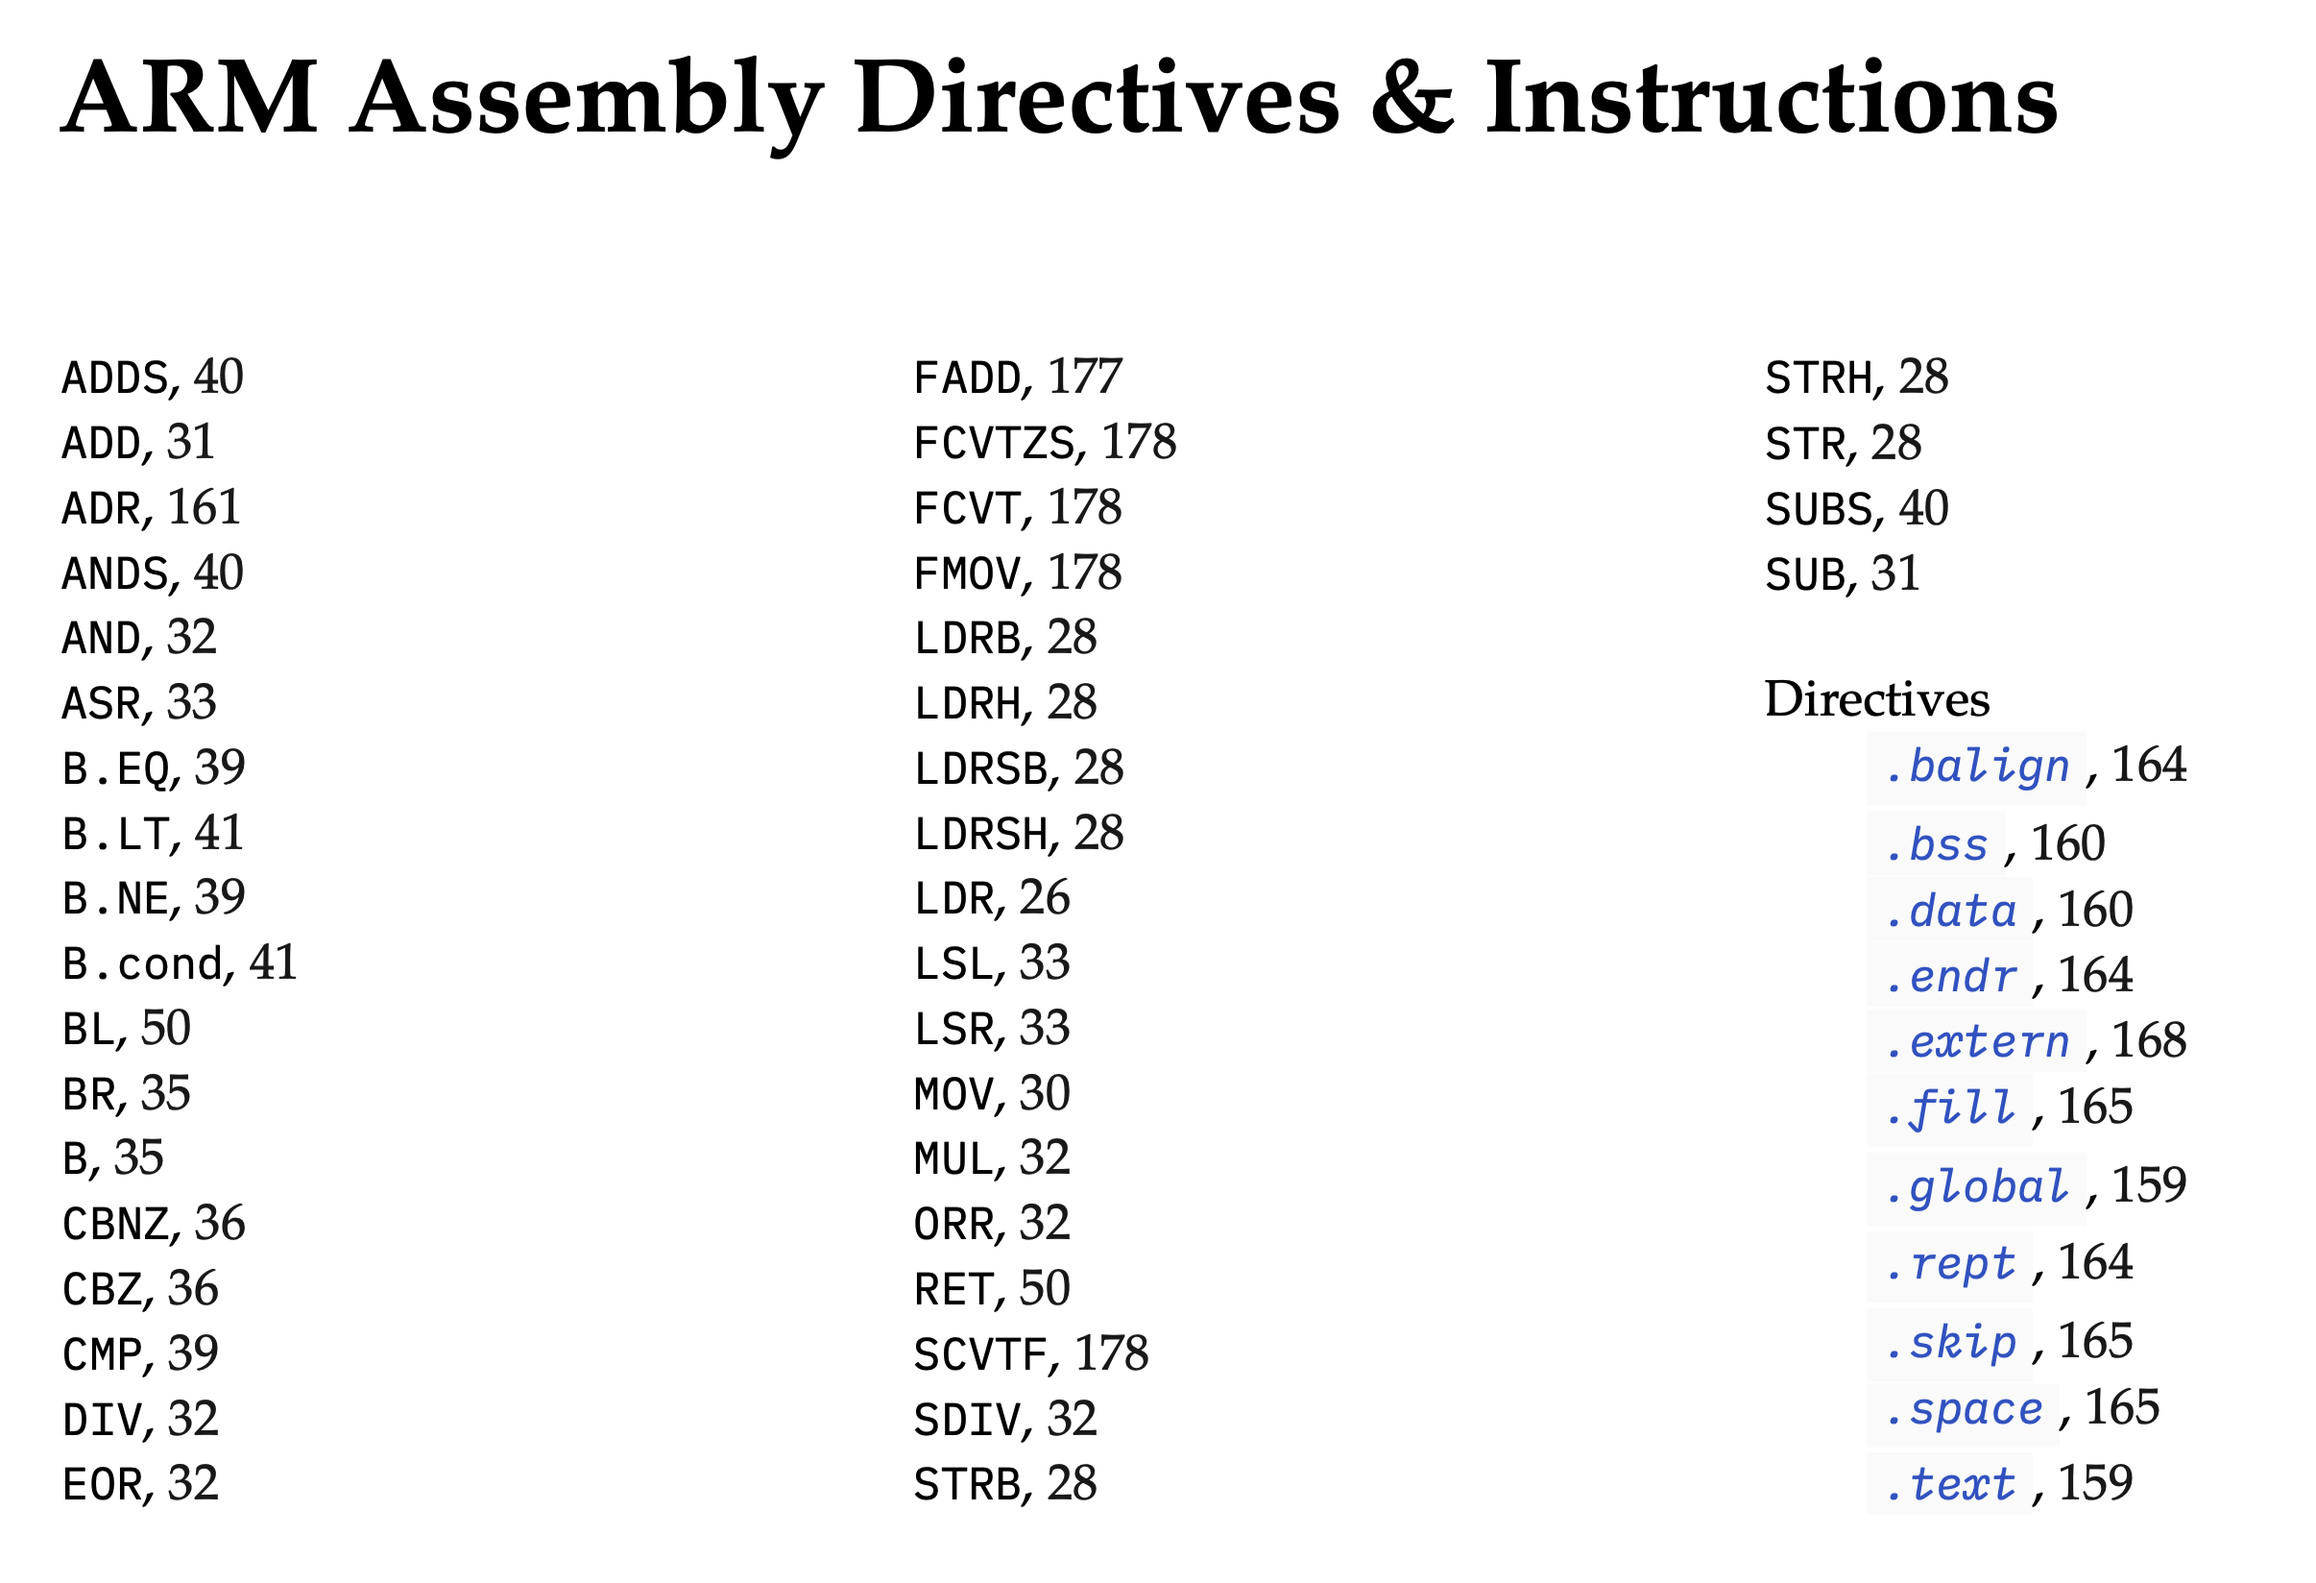
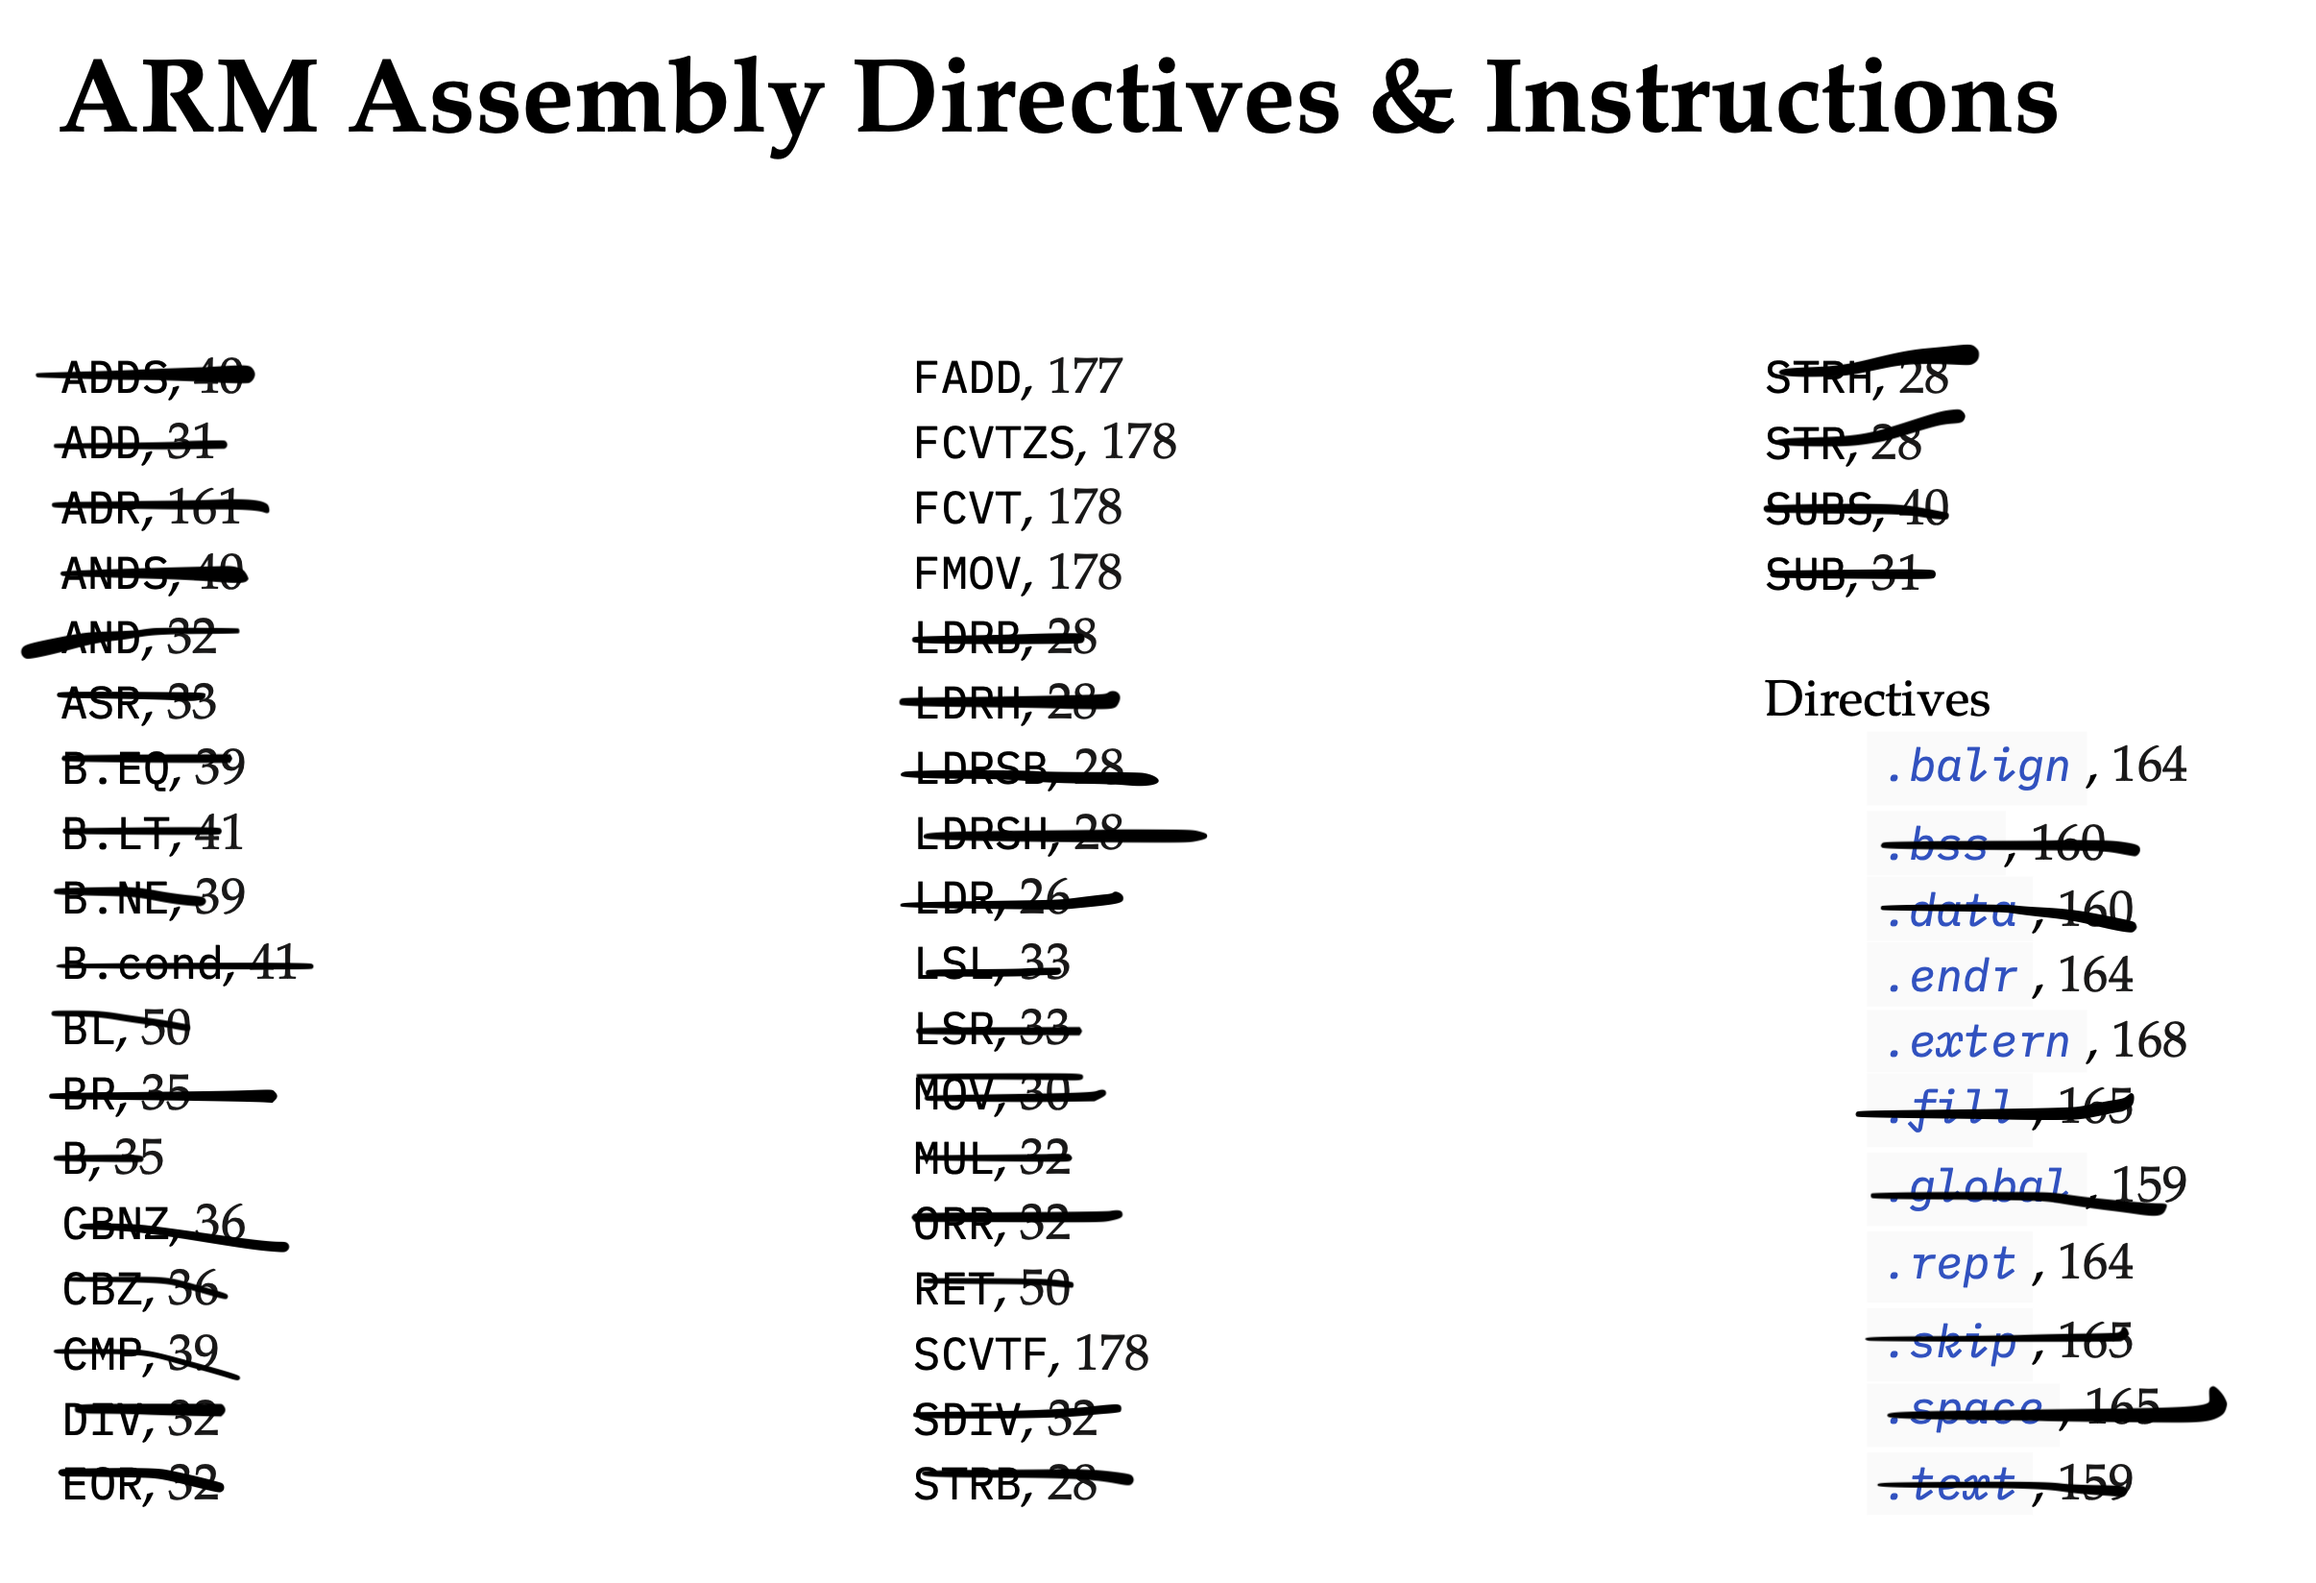
Started adding more instructions, added .space

diff --git a/src/cpu/state.rs b/src/cpu/state.rs
@@ -338,6 +338,7 @@ impl CpuState {
             OpCode::UDIV => self.execute_binary_op(&ir_insn.operands, alu::udiv, false, false),
             OpCode::SDIV => self.execute_binary_op(&ir_insn.operands, alu::sdiv, false, false),
             OpCode::AND => self.execute_binary_op(&ir_insn.operands, alu::and, false, false),
+            OpCode::ANDS => self.execute_binary_op(&ir_insn.operands, alu::and, true, false),
             OpCode::ORR => self.execute_binary_op(&ir_insn.operands, alu::orr, false, false),
             OpCode::EOR => self.execute_binary_op(&ir_insn.operands, alu::eor, false, false),
             OpCode::LSL => self.execute_binary_op(&ir_insn.operands, alu::lsl, false, false),
@@ -348,10 +349,26 @@ impl CpuState {
             OpCode::ADR => self.execute_adr(&ir_insn.operands),
             OpCode::LDR => self.execute_ldr(&ir_insn.operands),
             OpCode::LDRB => self.execute_ldrb(&ir_insn.operands),
+            OpCode::LDRH => Err(EmuError::UnimplementedSyscall(
+                "LDRH not implemented".to_string(),
+            )),
+            OpCode::LDRSB => Err(EmuError::UnimplementedSyscall(
+                "LDRSB not implemented".to_string(),
+            )),
+            OpCode::LDRSH => Err(EmuError::UnimplementedSyscall(
+                "LDRSH not implemented".to_string(),
+            )),
             OpCode::STR => self.execute_str(&ir_insn.operands),
             OpCode::STRB => self.execute_strb(&ir_insn.operands),
+            OpCode::STRH => Err(EmuError::UnimplementedSyscall(
+                "STRH not implemented".to_string(),
+            )),
             OpCode::B(cond) => self.execute_branch(OpCode::B(cond), &ir_insn.operands),
             OpCode::BL => self.execute_branch(OpCode::BL, &ir_insn.operands),
+            // OpCode::BR => Err(EmuError::UnimplementedSyscall(
+            //     "BR not implemented".to_string(),
+            // )),
+            OpCode::BR => self.execute_branch(OpCode::BR, &ir_insn.operands),
             OpCode::CBZ => self.execute_branch(OpCode::CBZ, &ir_insn.operands),
             OpCode::CBNZ => self.execute_branch(OpCode::CBNZ, &ir_insn.operands),
             OpCode::RET => self.execute_ret(),
@@ -365,6 +382,7 @@ impl CpuState {
 
     fn execute_branch(&mut self, opcode: OpCode, operands: &[Operand]) -> EmuResult<bool> {
         match operands {
+            // B / B.cond / BL
             [Operand::Imm(Immediate::Lbl(label))] => {
                 if let OpCode::B(condition) = opcode {
                     let take = self.check_condition(condition);
@@ -428,6 +446,7 @@ impl CpuState {
                 Ok(false)
             }
 
+            // CBZ / CBNZ
             [Operand::Reg(reg), Operand::Imm(Immediate::Lbl(label))] => {
                 let raw_val = self.get_reg(reg.to_id());
                 let reg_val = if reg.is_w_register() {
@@ -455,6 +474,14 @@ impl CpuState {
                     *self.ip.borrow_mut() = target_ip.saturating_sub(1);
                 }
 
+                Ok(false)
+            }
+
+            // BR
+            [Operand::Reg(reg)] if matches!(opcode, OpCode::BR) => {
+                let target_ip = self.get_reg(reg.to_id()) as usize;
+                *self.ip.borrow_mut() = target_ip;
+                self.did_branch.set(true);
                 Ok(false)
             }
 

diff --git a/src/assembler/parser.rs b/src/assembler/parser.rs
@@ -334,6 +334,22 @@ impl AsmParser {
                 }
             }
 
+            ".space" => {
+                if parts.len() < 2 {
+                    return Err(EmuError::InternalError(format!(
+                        ".space directive requires a size argument on line {}.",
+                        original_line_number
+                    )));
+                }
+                let size = parts[1].parse::<usize>().map_err(|_| {
+                    EmuError::InternalError(format!(
+                        "Invalid .space size argument on line {}: {}",
+                        original_line_number, parts[1]
+                    ))
+                })?;
+                Ok(Data::ByteArr(vec![0u8; size]))
+            }
+
             _ => Err(EmuError::InternalError(format!(
                 "Unimplemented data definition on line {}: {}",
                 original_line_number, line_content
@@ -451,6 +467,7 @@ impl AsmParser {
             "UDIVS" => OpCode::UDIVS,
             "SDIVS" => OpCode::SDIVS,
             "AND" => OpCode::AND,
+            "ANDS" => OpCode::ANDS,
             "ORR" => OpCode::ORR,
             "EOR" => OpCode::EOR,
             "NOT" => OpCode::NOT,
@@ -460,9 +477,14 @@ impl AsmParser {
             "ADR" => OpCode::ADR,
             "LDR" => OpCode::LDR,
             "LDRB" => OpCode::LDRB,
+            "LDRH" => OpCode::LDRH,
+            "LDRSB" => OpCode::LDRSB,
+            "LDRSH" => OpCode::LDRSH,
             "STR" => OpCode::STR,
             "STRB" => OpCode::STRB,
+            "STRH" => OpCode::STRH,
             "BL" => OpCode::BL,
+            "BR" => OpCode::BR,
             "B" => OpCode::B(Condition::Al),
             "B.EQ" => OpCode::B(Condition::Eq),
             "BEQ" => OpCode::B(Condition::Eq),

diff --git a/src/assembler/asm_types.rs b/src/assembler/asm_types.rs
@@ -216,6 +216,7 @@ pub enum OpCode {
     UDIVS,
     SDIVS,
     AND,
+    ANDS,
     ORR,
     EOR,
     NOT,
@@ -226,8 +227,13 @@ pub enum OpCode {
     STR,
     LDRB,
     STRB,
+    LDRH,
+    STRH,
+    LDRSB,
+    LDRSH,
     B(Condition),
     BL,
+    BR,
     RET,
     CMP,
     CBZ,

diff --git a/README.md b/README.md
@@ -131,6 +131,11 @@ Example command to run with multiple plugins:
 
 **Instructions**
 - [ ] Add more AArch64 instruction support
+    - [ ] Finish implementation for:
+        - LDRH
+        - LDRSB
+        - LDRSH
+        - STRH
 
 **Documentation**
 - [ ] Expand inline comments and Rustdocs
